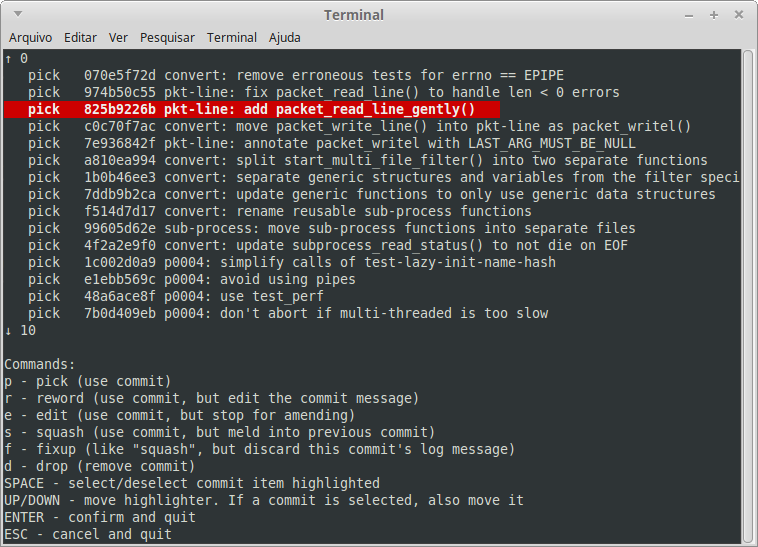
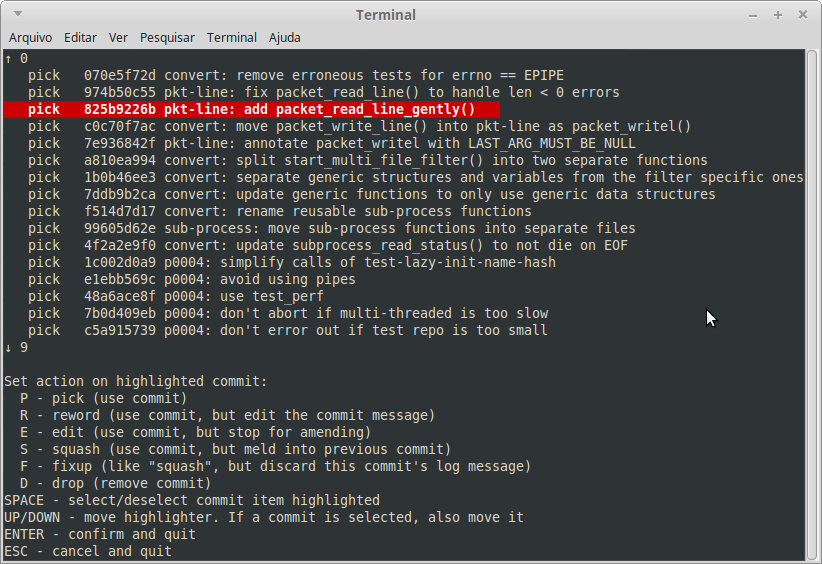
Document installation and usage instructions

Changed region(s): [[0.0, 0.0, 1.0, 0.9945], [0.0, 0.6527, 0.6979, 0.9945], [0.8496, 0.5594, 0.8799, 0.5905]]

diff --git a/git_reorder.py b/git_reorder.py
@@ -35,20 +35,19 @@ def editor_main(file):
     }
 
     INSTRUCTIONS = """
-Commands:
-p - pick (use commit)
-r - reword (use commit, but edit the commit message)
-e - edit (use commit, but stop for amending)
-s - squash (use commit, but meld into previous commit)
-f - fixup (like "squash", but discard this commit's log message)
-d - drop (remove commit)
+Set action on highlighted commit:
+  P - pick (use commit)
+  R - reword (use commit, but edit the commit message)
+  E - edit (use commit, but stop for amending)
+  S - squash (use commit, but meld into previous commit)
+  F - fixup (like "squash", but discard this commit's log message)
+  D - drop (remove commit)
 SPACE - select/deselect commit item highlighted
 UP/DOWN - move highlighter. If a commit is selected, also move it
 ENTER - confirm and quit
 ESC - cancel and quit
     """.split("\n")
-    INSTRUCTIONS = [line.strip() for line in INSTRUCTIONS]
-    INSTRUCTIONS = [line for line in INSTRUCTIONS if line]
+    INSTRUCTIONS = [line for line in INSTRUCTIONS if line.strip()]
 
     class Reorder:
         def __init__(self, file):

diff --git a/README.md b/README.md
@@ -1,4 +1,27 @@
 # git-reorder
-A visual helper for interactive rebase
+A visual helper for interactive rebase.
 
 ![Screenshot](Screenshot.png)
+
+## Installation
+
+Requires Python 3.
+
+```sh
+./create-alias.sh
+```
+
+This will create the **global** alias `reorder` for Git.
+
+## Usage
+
+```sh
+git reorder <options>
+```
+
+Since _git reorder_ is implemented with interactive mode of _git rebase_, most of
+_git rebase_ options are available. Exceptions are options used after an interactive
+rebase is started (`--continue`, `--skip`, etc.) and options incompatible with
+interactive mode of _git rebase_ (`--ignore-date`, `--ignore-whitespace`, etc.).
+
+See [git-rebase](https://git-scm.com/docs/git-rebase).
